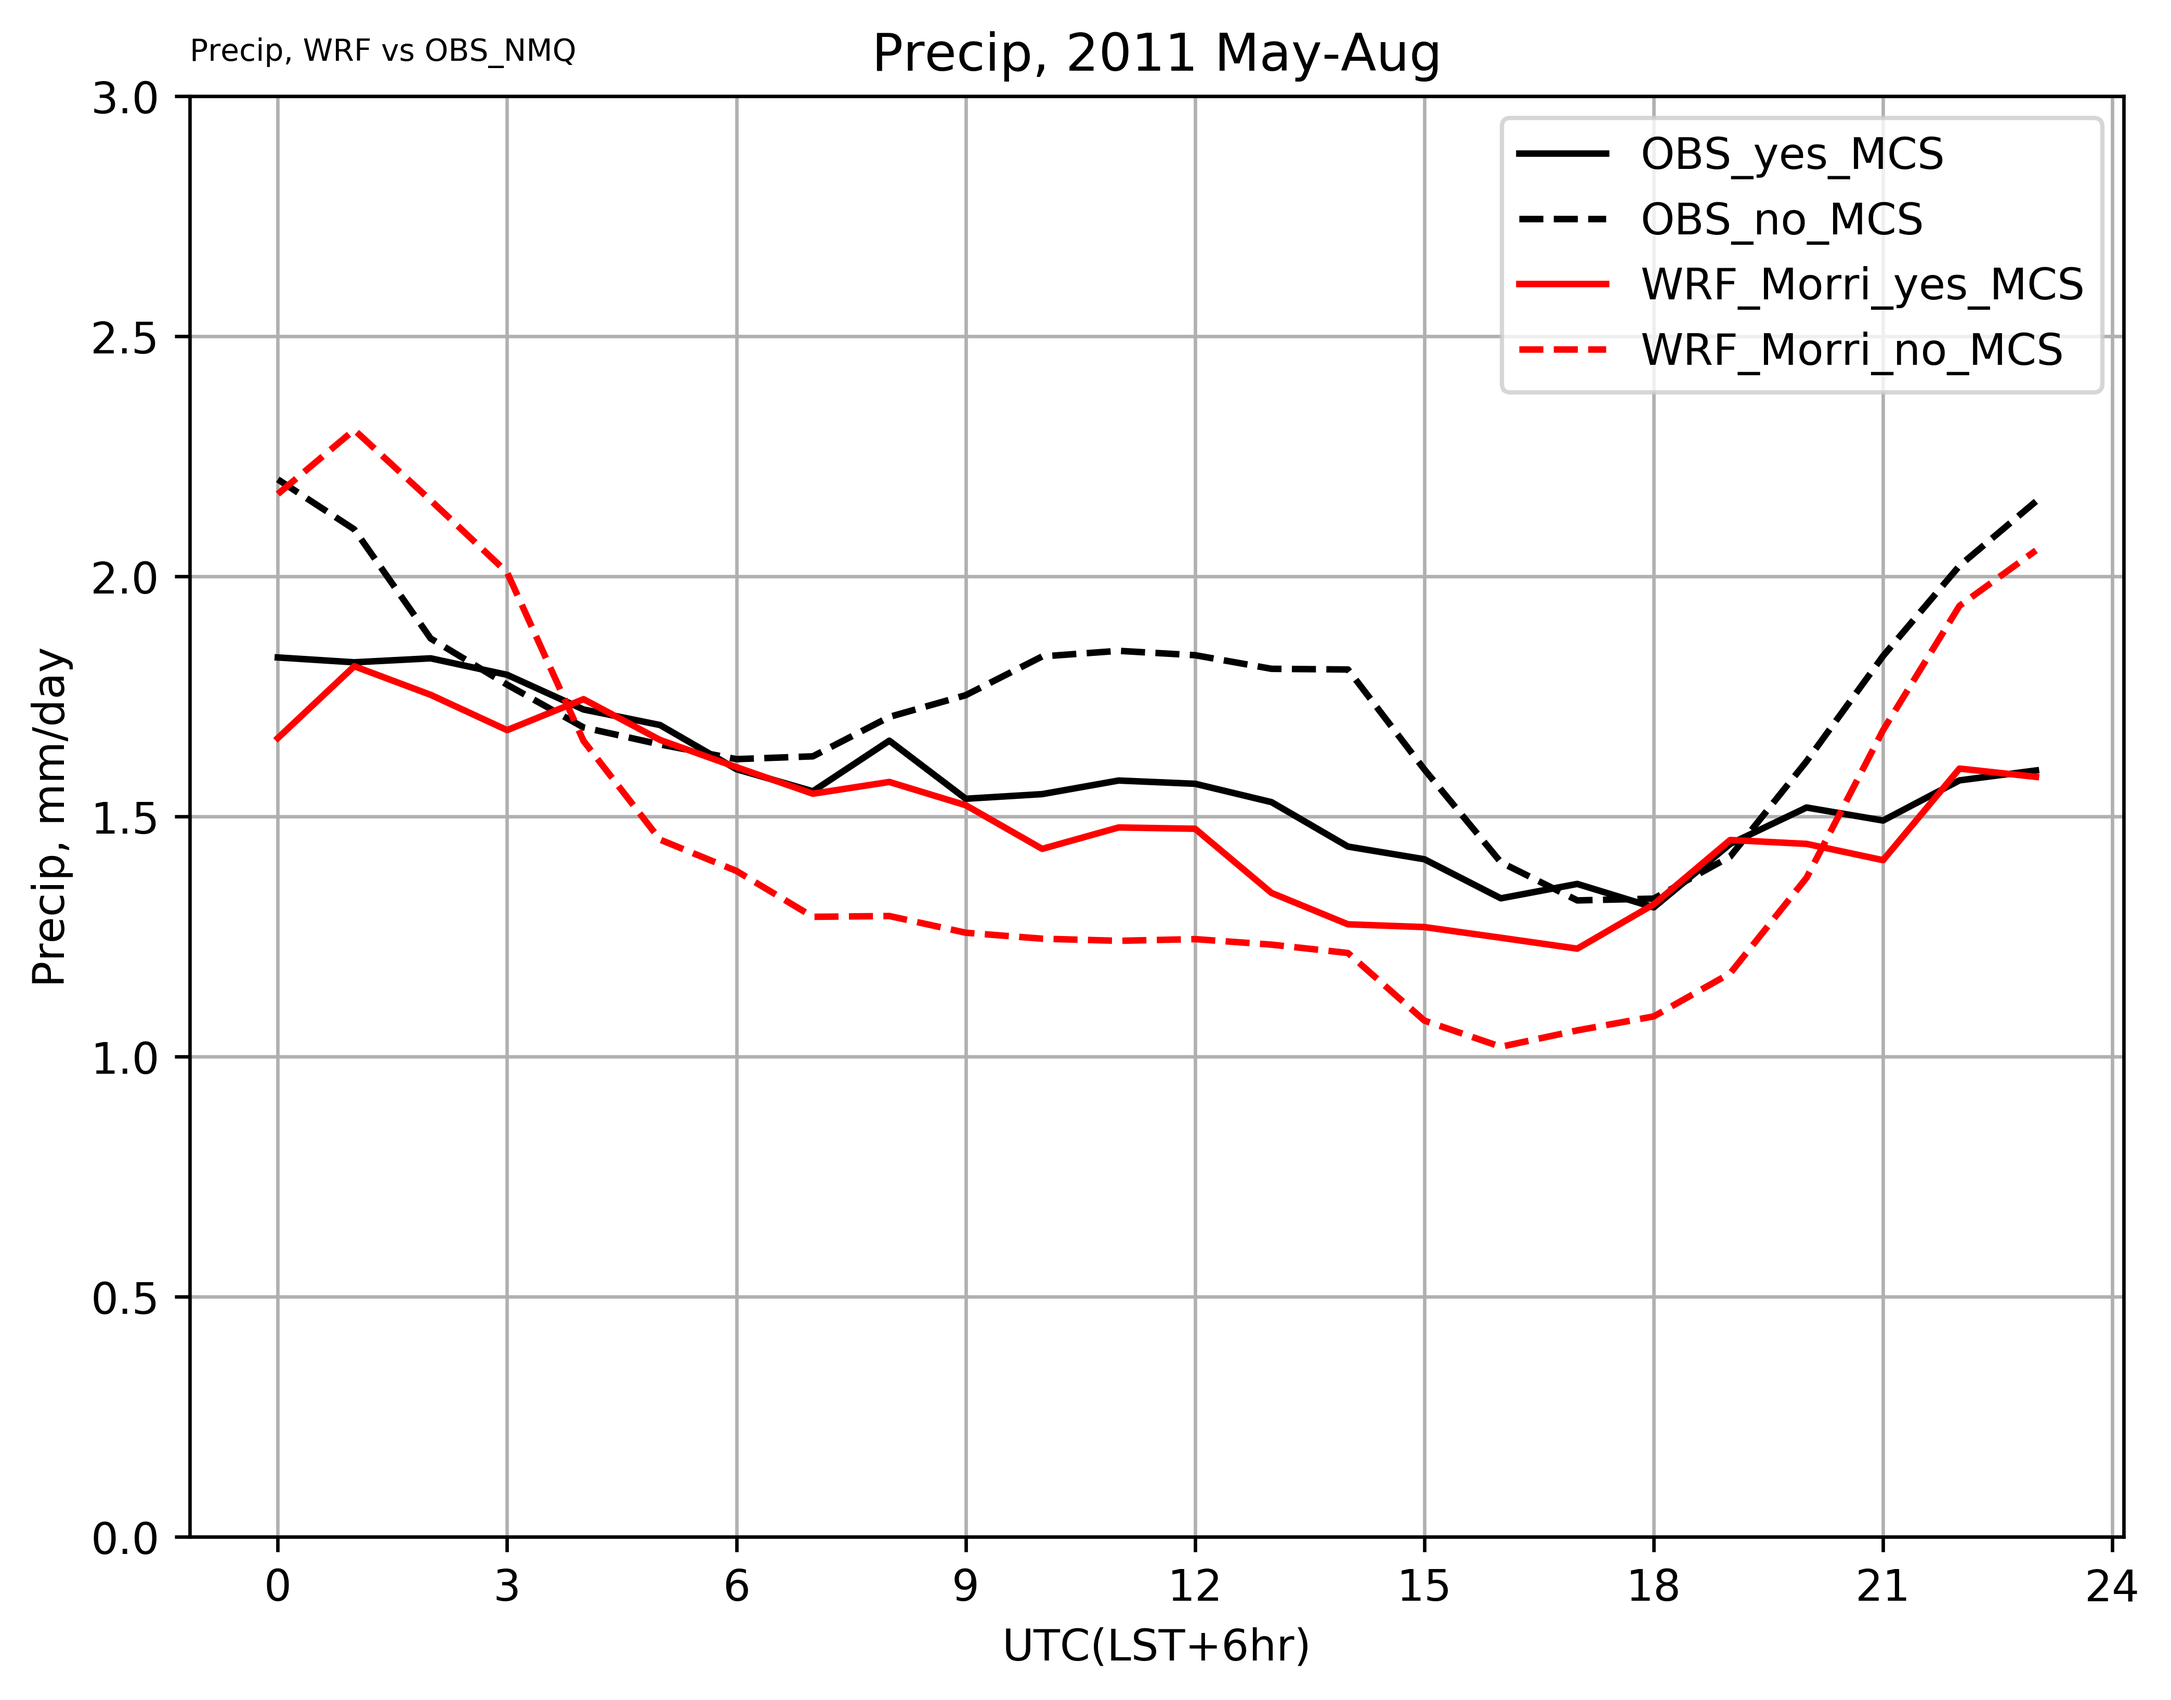
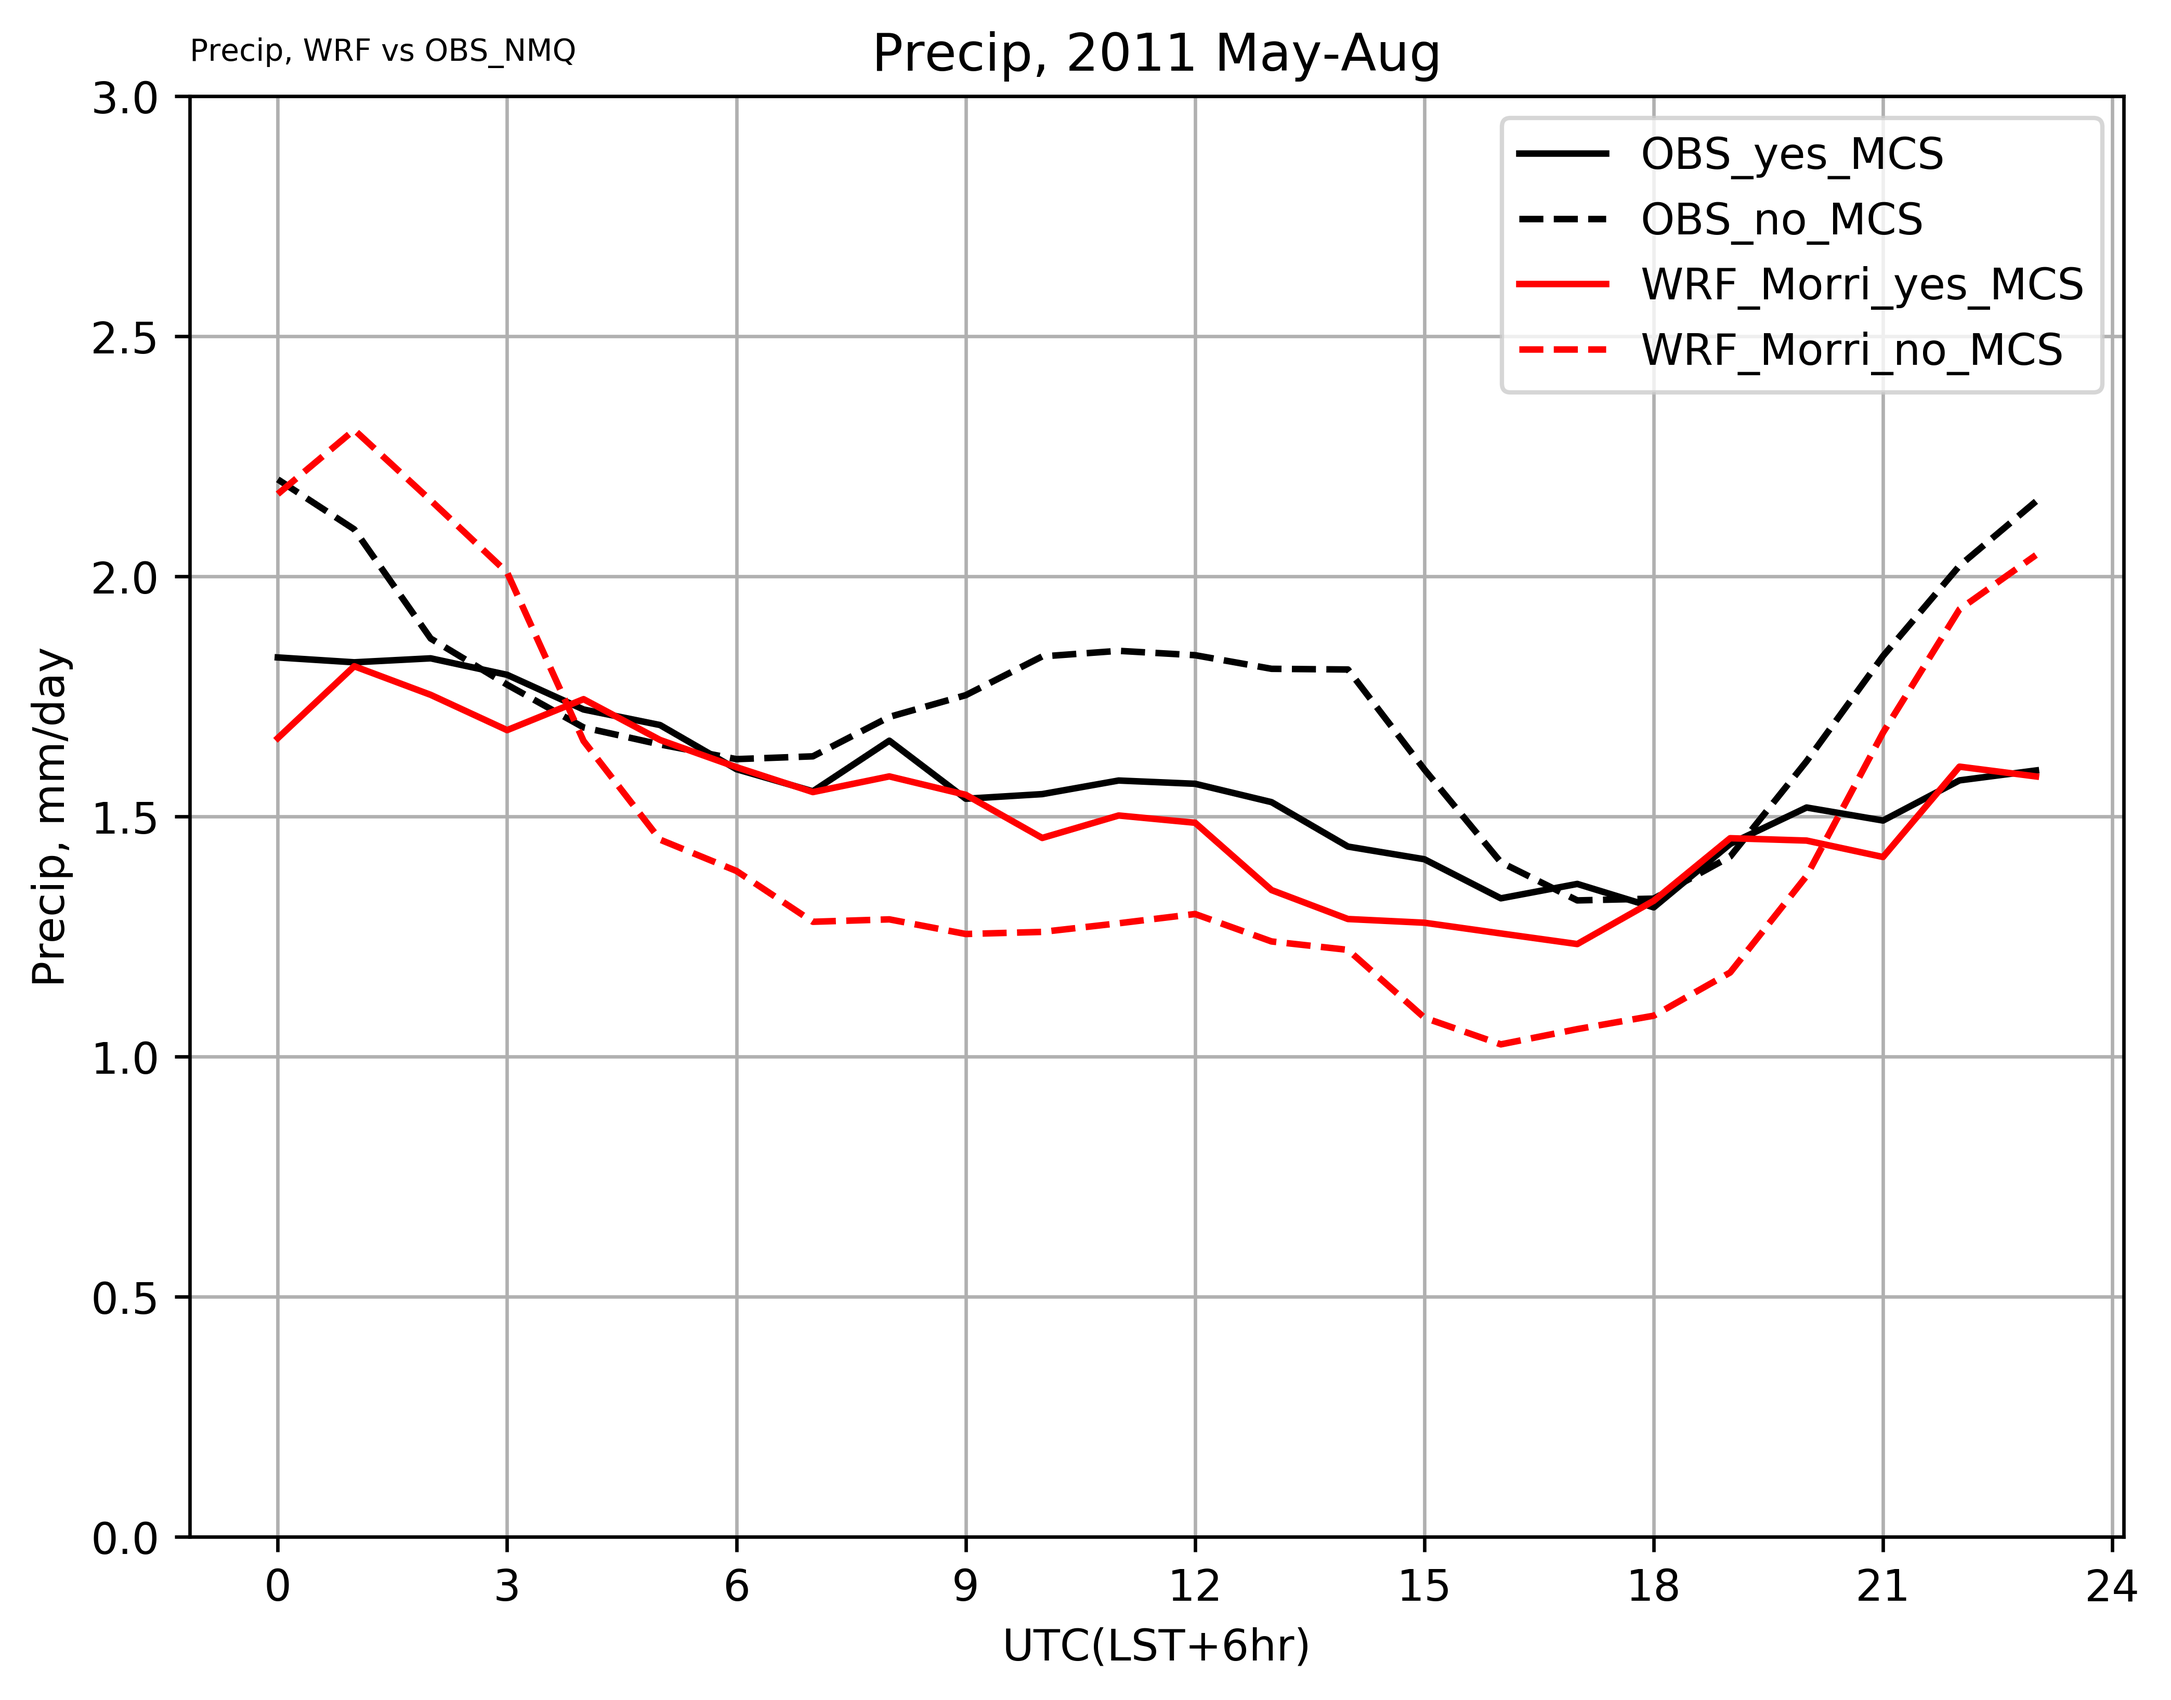
MCS mask distribution SGP

diff --git a/Code_MCS_mask/09_a_MCS_distribution_OBS_WRF_Morri.py b/Code_MCS_mask/09_a_MCS_distribution_OBS_WRF_Morri.py
@@ -1,0 +1,141 @@
+'''
+Function: 
+    1. OBS: distribution of (fraction of MCS grids to total grids). One hour is one sample, one snapshot of \
+            MCS grids/total SGP grids is one data point.
+    2. OBS: distribution of (MCS frequency on different hour of the day). Check the 3x3 SGP grids,\
+            MCS cases / total MCS cases, inspect this over different hour of the day.
+    3. WRF_Morrison: similar to 1 
+    4. WRF_Morrison: similar to 2
+'''
+
+import numpy as np
+import xarray as xr
+import matplotlib.pyplot as plt
+import pandas as pd
+
+ds_OBS = xr.open_dataset('/home/qin5/Data/WRF_postprocessing/OBS/mcstrack_20110501-0831.ncrcat.nc')
+ds_WRF_MCS = xr.open_dataset('/home/qin5/Data/WRF_postprocessing/WRF_Morri/WRF.mask.postprocessing.extract.hourly.0.04.nc')
+
+## Figure 8 in Ma et al 2018, average over 35-38N, 99-96W, consistent with ARMBE2D from Qi Tang
+lat_1 = 35.0
+lat_2 = 38.0
+lon_1 = -99.0
+lon_2 = -96.0
+
+### OBS of MCS masks
+### MCS masks
+#OBS_MCS_mask = ds_OBS['pcptracknumber']
+
+### Convert all MCS track number to 1 for summation purpose
+pcpnumber_OBS = ds_OBS.pcptracknumber.values
+pcpnumber_OBS[pcpnumber_OBS > 0] = 1
+
+# Convert numpy array to DataArray
+mcspcpmask_OBS = xr.DataArray(pcpnumber_OBS, coords={'time':ds_OBS.time, 'lat':ds_OBS.lat, 'lon':ds_OBS.lon}, dims=['time','lat','lon'])
+
+# slice over SGP 3x3 grid box
+mcspcpmask_OBS_SGP = mcspcpmask_OBS.sel(lat=slice(lat_1,lat_2),lon=slice(lon_1,lon_2))
+print(mcspcpmask_OBS_SGP)
+
+# total points at SGP box
+lat_count = len(ds_OBS['lat'].sel(lat=slice(lat_1, lat_2)).values)
+lon_count = len(ds_OBS['lon'].sel(lon=slice(lon_1, lon_2)).values)
+total_count = lat_count * lon_count # 82x82
+
+# Calculate MCS grid point fraction for different hours
+mcspcpmask_OBS_SGP_MCS_points = mcspcpmask_OBS_SGP.sum(dim='lat').sum(dim='lon')
+#print(mcspcpmask_OBS_SGP_MCS_points)
+
+mcspcpmask_OBS_SGP_MCS_fraction = mcspcpmask_OBS_SGP_MCS_points / total_count
+#print(mcspcpmask_OBS_SGP_MCS_fraction.values)
+
+##### MCS mask at different hour of the day
+mcspcpmask_OBS_SGP_MCS_points_diurnal = mcspcpmask_OBS_SGP_MCS_points.groupby('time.hour').sum()
+#print(mcspcpmask_OBS_SGP_MCS_points_diurnal)
+
+mcspcpmask_OBS_SGP_MCS_points_diurnal_total = mcspcpmask_OBS_SGP_MCS_points_diurnal.sum(dim='hour')
+#print(mcspcpmask_OBS_SGP_MCS_points_diurnal_total)
+
+mcspcpmask_OBS_SGP_MCS_points_diurnal_fraction = mcspcpmask_OBS_SGP_MCS_points_diurnal / mcspcpmask_OBS_SGP_MCS_points_diurnal_total
+#print(mcspcpmask_OBS_SGP_MCS_points_diurnal_fraction)
+
+#### WRF_Morrison
+### MCS masks
+#WRF_MCS_mask = ds_WRF_MCS['pcptracknumber_regrid']
+
+pcpnumber_WRF = ds_WRF_MCS.pcptracknumber_regrid.values
+pcpnumber_WRF[pcpnumber_WRF > 0] = 1
+
+# Convert numpy array to DataArray
+mcspcpmask_WRF = xr.DataArray(pcpnumber_WRF, coords={'time':ds_WRF_MCS.time, 'lat':ds_WRF_MCS.lat, 'lon':ds_WRF_MCS.lon}, dims=['time','lat','lon'])
+
+# slice over SGP 3x3 grid box
+mcspcpmask_WRF_SGP = mcspcpmask_WRF.sel(lat=slice(lat_1,lat_2),lon=slice(lon_1,lon_2))
+print(mcspcpmask_WRF_SGP)
+
+# total points at SGP box
+lat_count_WRF = len(ds_WRF_MCS['lat'].sel(lat=slice(lat_1, lat_2)).values)
+lon_count_WRF = len(ds_WRF_MCS['lon'].sel(lon=slice(lon_1, lon_2)).values)
+total_count_WRF = lat_count_WRF * lon_count_WRF  # 76x76
+print(total_count_WRF)  # 5776
+
+# Calculate MCS grid point fraction for different hours
+mcspcpmask_WRF_SGP_MCS_points = mcspcpmask_WRF_SGP.sum(dim='lat').sum(dim='lon')
+print(mcspcpmask_WRF_SGP_MCS_points)
+
+mcspcpmask_WRF_SGP_MCS_fraction = mcspcpmask_WRF_SGP_MCS_points / total_count_WRF
+print(mcspcpmask_WRF_SGP_MCS_fraction.values)
+
+##### MCS mask at different hour of the day
+mcspcpmask_WRF_SGP_MCS_points_diurnal = mcspcpmask_WRF_SGP_MCS_points.groupby('time.hour').sum()
+print(mcspcpmask_WRF_SGP_MCS_points_diurnal)
+
+mcspcpmask_WRF_SGP_MCS_points_diurnal_total = mcspcpmask_WRF_SGP_MCS_points_diurnal.sum(dim='hour')
+print(mcspcpmask_WRF_SGP_MCS_points_diurnal_total)
+
+mcspcpmask_WRF_SGP_MCS_points_diurnal_fraction = mcspcpmask_WRF_SGP_MCS_points_diurnal / mcspcpmask_WRF_SGP_MCS_points_diurnal_total
+print(mcspcpmask_WRF_SGP_MCS_points_diurnal_fraction)
+
+######
+### Plot 
+fig = plt.figure(figsize=(12,12))
+fontsize = 7
+
+ax1 = fig.add_subplot(2,2,1)
+num_bins1 = 20
+n, bins, patches = ax1.hist(mcspcpmask_OBS_SGP_MCS_fraction.values, num_bins1)
+ax1.set(xlabel='MCS grids/total grids', ylabel='# of hours',title='OBS, MCS grids fraction, histogram')
+ax1.grid()
+
+ax2 = fig.add_subplot(2,2,2)
+ax2.set_xticks(np.arange(0,24,1))
+x_labels = ['18','19','20','21','22','23','00','01','02','03','04','05','06','07',\
+        '08','09','10','11','12','13','14','15','16','17']
+ax2.set_xticklabels(x_labels)
+ax2.bar(np.arange(0,24,1),mcspcpmask_OBS_SGP_MCS_points_diurnal_fraction)
+ax2.set(xlabel='hour of the day (LST=UTC-6)', ylabel='MCS fraction',title='OBS, MCS occurrence fraction(space+time)')
+ax2.grid()
+
+ax3 = fig.add_subplot(2,2,3)
+num_bins3 = 20
+n, bins, patches = ax3.hist(mcspcpmask_WRF_SGP_MCS_fraction.values, num_bins3)
+ax3.set(xlabel='MCS grids/total grids', ylabel='# of hours',title='WRF_Morri, MCS grids fraction, histogram')
+ax3.grid()
+
+ax4 = fig.add_subplot(2,2,4)
+ax4.set_xticks(np.arange(0,24,1))
+x_labels_ax4 = ['18','19','20','21','22','23','00','01','02','03','04','05','06','07',\
+        '08','09','10','11','12','13','14','15','16','17']
+ax4.set_xticklabels(x_labels_ax4)
+ax4.bar(np.arange(0,24,1),mcspcpmask_WRF_SGP_MCS_points_diurnal_fraction)
+ax4.set(xlabel='hour of the day (LST=UTC-6)', ylabel='MCS fraction',title='WRF_Morri, MCS occurrence fraction(space+time)')
+ax4.grid()
+
+
+fig.savefig("../Figure_MCS_mask/MCS_distribution.png",dpi=200)
+plt.tight_layout()
+plt.show()
+
+
+
+

diff --git a/Code_MCS_mask/10_a_WRF_Morr_Precip_diurnal_cycle.MCS_mask.SGP.MJJA.py b/Code_MCS_mask/10_a_WRF_Morr_Precip_diurnal_cycle.MCS_mask.SGP.MJJA.py
@@ -81,8 +81,8 @@ print(ds_OBS['time'][0:24])
 ##print(var_WRF_no_MCS2)
 
 ### the time has regular values, so you can use the following command
-WRF_yes_MCS = var_WRF_yes_MCS1.groupby('time.hour').mean()
-WRF_no_MCS = var_WRF_no_MCS1.groupby('time.hour').mean()
+WRF_yes_MCS = var_WRF_yes_MCS.groupby('time.hour').mean()
+WRF_no_MCS = var_WRF_no_MCS.groupby('time.hour').mean()
 
 ## change units
 WRF_yes_MCS = WRF_yes_MCS * 24.0  # from mm/hour to mm/day
@@ -259,7 +259,7 @@ ax1.legend(loc='upper right')
 #ax2.grid()
 #ax2.legend(loc='lower right')
 
-fig.savefig("../Figure_MCS_mask/09_a_Precip.OBS_vs_WRF_Morri"+label_string+"leeway_0.1"+".MCS_masks.png",dpi=600,bbox_inches="tight")
+fig.savefig("../Figure_MCS_mask/09_a_Precip.OBS_vs_WRF_Morri"+label_string+"leeway_0.1"+".MCS_masks.png",dpi=200,bbox_inches="tight")
 plt.show()
 
 
